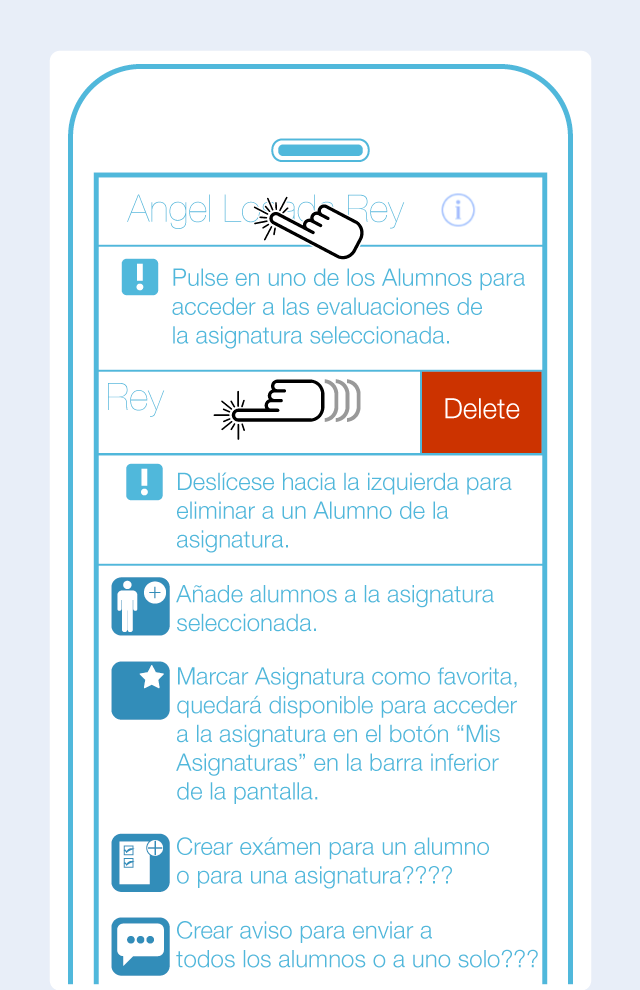
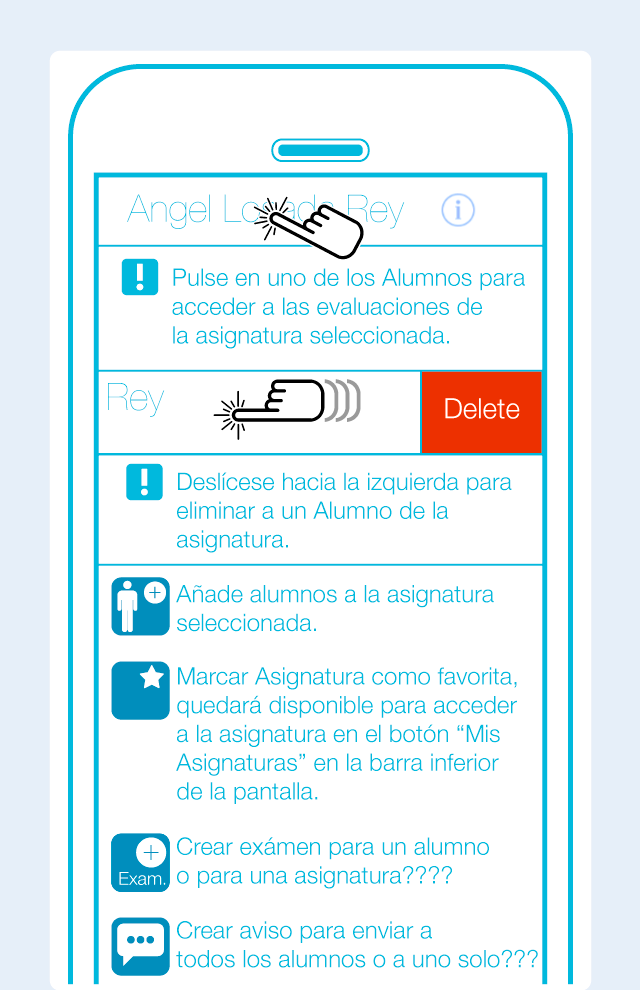
Cambios esteticos:
Añadido boton de "añadir examen" a la pantalla 1.1.18winAlumnosAsignatura, concretamente a BotoneraAsignatura.

diff --git a/app/controllers/BotoneraAsignatura.js b/app/controllers/BotoneraAsignatura.js
@@ -14,7 +14,7 @@ if (datos.Favorita==1){
     var buttons = [
        		{image:'/library/images/iphone/icons/iconoAddAlumno.png', width:24, enabled:true},
    			{image:'/library/images/iphone/icons/iconoAddFavorito.png', width:24, enabled:false},
-    		{image:'/library/images/iphone/icons/iconoAddAlumnoCloud.png', width:24, enabled:true},
+    		{image:'/library/images/iphone/icons/iconoCrearExamen.png', width:24, enabled:true},
     		{image:'/library/images/iphone/icons/iconoMandarNotaClase.png', width:24, enabled:true}
     		/*{title:'+', enabled:true},
         	{title:'*', enabled:false},
@@ -37,7 +37,7 @@ $.btnBar.addEventListener("click", function(e){
 	        var buttons = [
         			{image:'/library/images/iphone/icons/iconoAddAlumno.png', width:24, enabled:true},
    					{image:'/library/images/iphone/icons/iconoAddFavorito.png', width:24, enabled:false},
-    				{image:'/library/images/iphone/icons/iconoAddAlumnoCloud.png', width:24, enabled:true},
+    				{image:'/library/images/iphone/icons/iconoCrearExamen.png', width:24, enabled:true},
     				{image:'/library/images/iphone/icons/iconoMandarNotaClase.png', width:24, enabled:true}
     				];
 	        $.btnBar.labels=buttons;

diff --git a/Resources/iphone/alloy/controllers/BotoneraAsignatura.js b/Resources/iphone/alloy/controllers/BotoneraAsignatura.js
@@ -69,7 +69,7 @@ function Controller() {
             width: 24,
             enabled: false
         }, {
-            image: "/library/images/iphone/icons/iconoAddAlumnoCloud.png",
+            image: "/library/images/iphone/icons/iconoCrearExamen.png",
             width: 24,
             enabled: true
         }, {
@@ -99,7 +99,7 @@ function Controller() {
                 width: 24,
                 enabled: false
             }, {
-                image: "/library/images/iphone/icons/iconoAddAlumnoCloud.png",
+                image: "/library/images/iphone/icons/iconoCrearExamen.png",
                 width: 24,
                 enabled: true
             }, {
